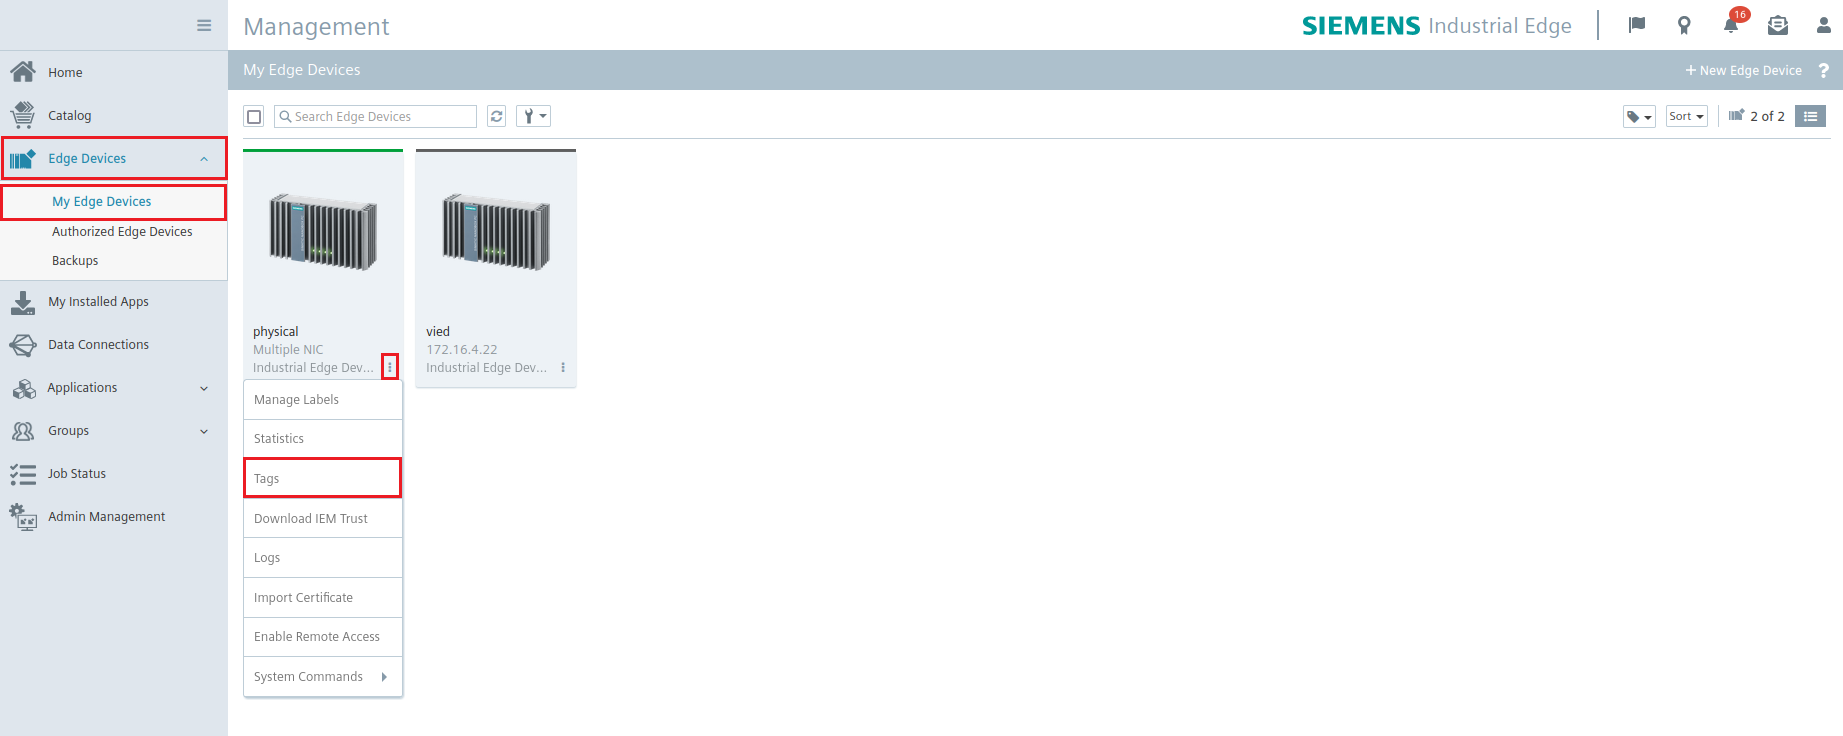
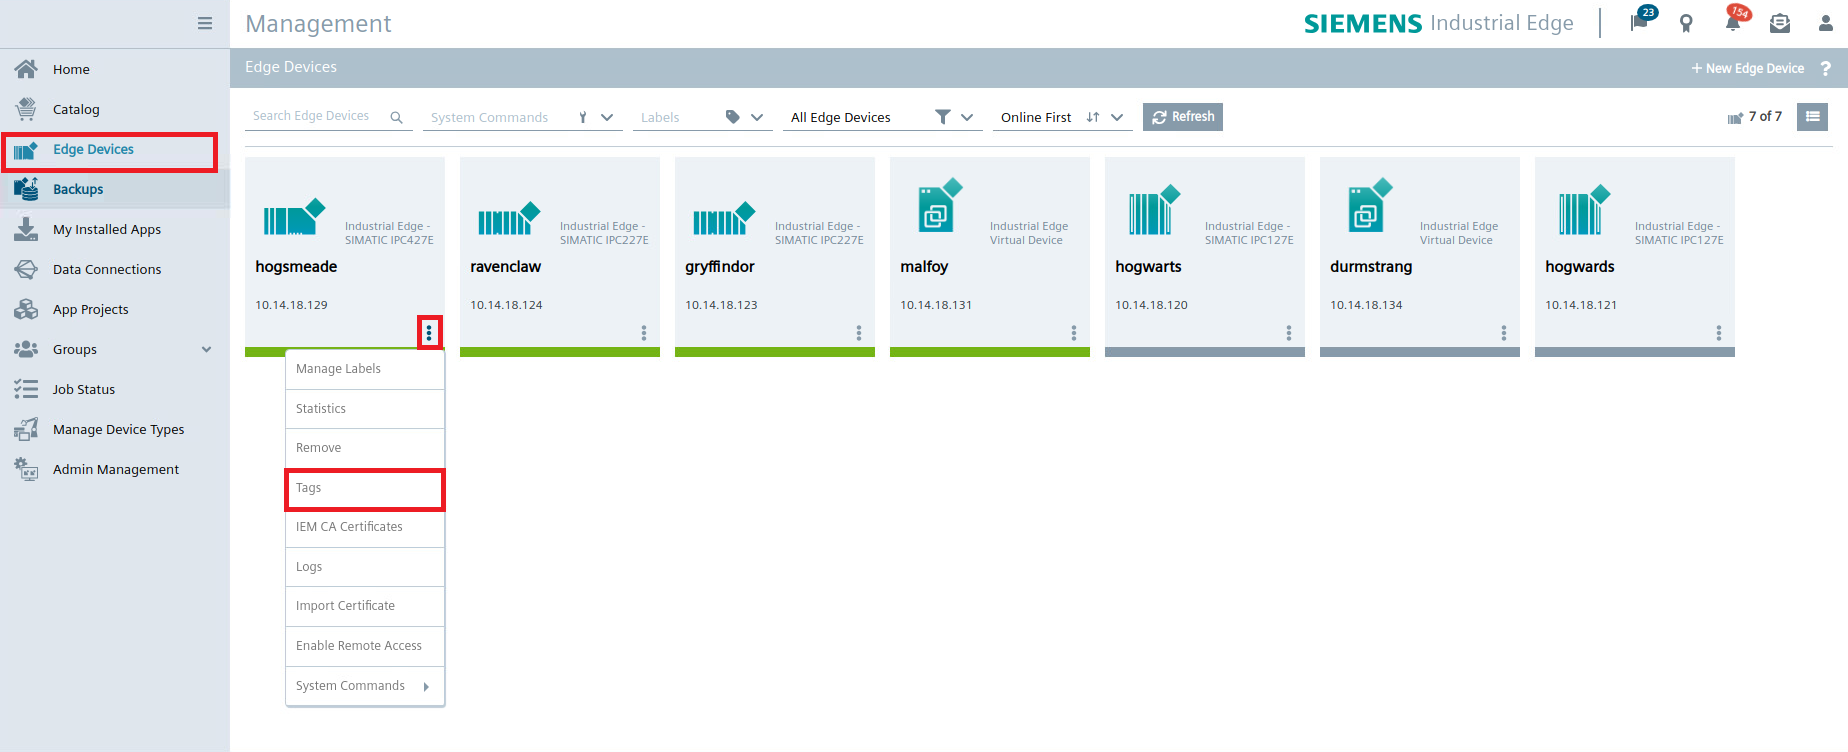
updated dockerfile name, app configuration screenshots, and documentation format

diff --git a/README.md b/README.md
@@ -2,7 +2,7 @@
 
 This application example shows how to use configuration files and device tags for mass demployment.
 
-- [Using configuration files and device tags to personalize applications](#using-configuration-files-and-device-tags-to-personalize-applications)
+- [Hello World at Scale](#hello-world-at-scale)
   - [Description](#description)
     - [Overview](#overview)
   - [Requirements](#requirements)
@@ -12,6 +12,7 @@ This application example shows how to use configuration files and device tags fo
   - [Documentation](#documentation)
   - [Contribution](#contribution)
   - [License and Legal Information](#license-and-legal-information)
+  - [Disclaimer](#disclaimer)
 
 ## Description
 
@@ -54,7 +55,7 @@ We will create new JSON file that will contain our configuration with the follow
 
 The *##$ip$##* and *##$deviceName$##* indicate placeholders that will be replaced by device tags.
 
-Let's now create the device tags. Head over to Industrial Edge Management and open *Edge Devices/My Edge Devices/.../Tags*.
+Let's now create the device tags. Head over to Industrial Edge Management and open *Edge Devices/.../Tags*.
 
 ![Tags location](./docs/graphics/tags_1.png)
 
@@ -81,14 +82,14 @@ After the configuration is downloaded, refresh the application website. You shou
 ![Updated Application](./docs/graphics/updated.png)
 
 ## Documentation
-
-You can find further documentation and help at the following links
-
-- [Industrial Edge Hub](https://iehub.eu1.edge.siemens.cloud/)
-- [Industrial Edge Forum](https://support.industry.siemens.com/tf/ww/en/threads/338)
-- [Industrial Edge Landing page](https://new.siemens.com/global/en/products/automation/topic-areas/industrial-edge/production-machines.html)
-- [Industrial Edge GitHub page](https://github.com/industrial-edge)
-
+ 
+- You can find further documentation and help in the following links
+  - [Industrial Edge Hub](https://iehub.eu1.edge.siemens.cloud/#/documentation)
+  - [Industrial Edge Forum](https://www.siemens.com/industrial-edge-forum)
+  - [Industrial Edge landing page](https://new.siemens.com/global/en/products/automation/topic-areas/industrial-edge/simatic-edge.html)
+  - [Industrial Edge GitHub page](https://github.com/industrial-edge)
+  - [Industrial Edge documentation page](https://docs.eu1.edge.siemens.cloud/index.html)
+  
 ## Contribution
 
 Thank you for your interest in contributing. Anybody is free to report bugs, unclear documentation, and other problems regarding this repository in the Issues section.
@@ -96,6 +97,12 @@ Additionally everybody is free to propose any changes to this repository using P
 
 If you are interested in contributing via Pull Request, please check the [Contribution License Agreement](Siemens_CLA_1.1.pdf) and forward a signed copy to [industrialedge.industry@siemens.com](mailto:industrialedge.industry@siemens.com?subject=CLA%20Agreement%20Industrial-Edge).
 
-## Licence and Legal Information
+## License and Legal Information
 
 Please read the [Legal information](LICENSE.txt).
+
+## Disclaimer
+
+IMPORTANT - PLEASE READ CAREFULLY:
+
+This documentation describes how you can download and set up containers which consist of or contain third-party software. By following this documentation you agree that using such third-party software is done at your own discretion and risk. No advice or information, whether oral or written, obtained by you from us or from this documentation shall create any warranty for the third-party software. Additionally, by following these descriptions or using the contents of this documentation, you agree that you are responsible for complying with all third party licenses applicable to such third-party software. All product names, logos, and brands are property of their respective owners. All third-party company, product and service names used in this documentation are for identification purposes only. Use of these names, logos, and brands does not imply endorsement.
